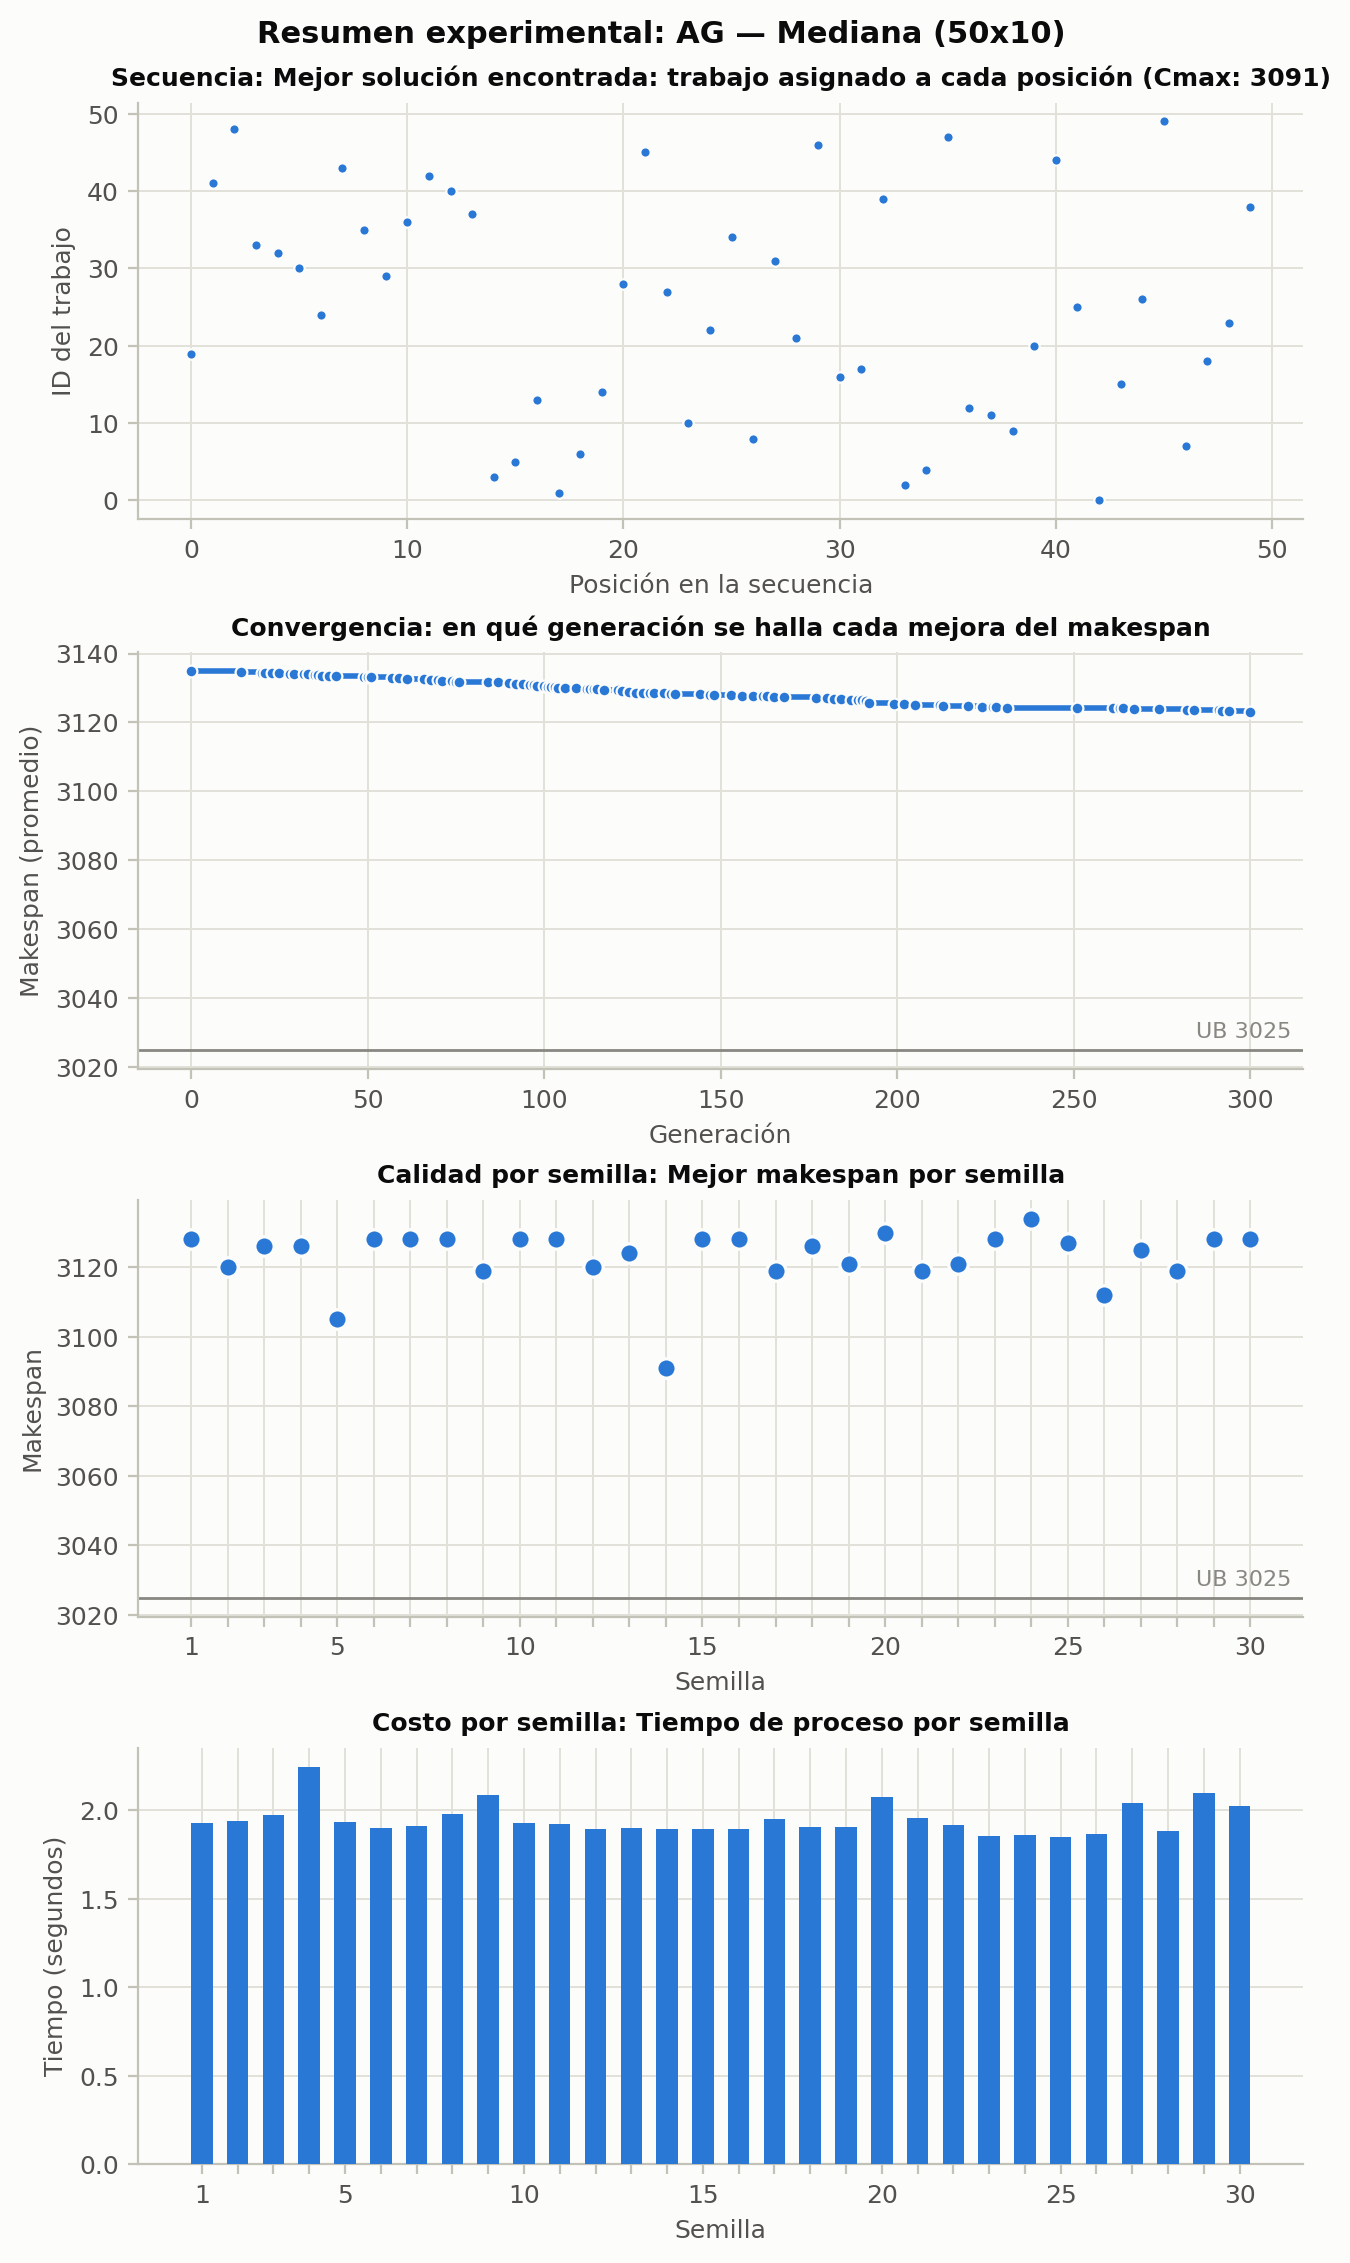
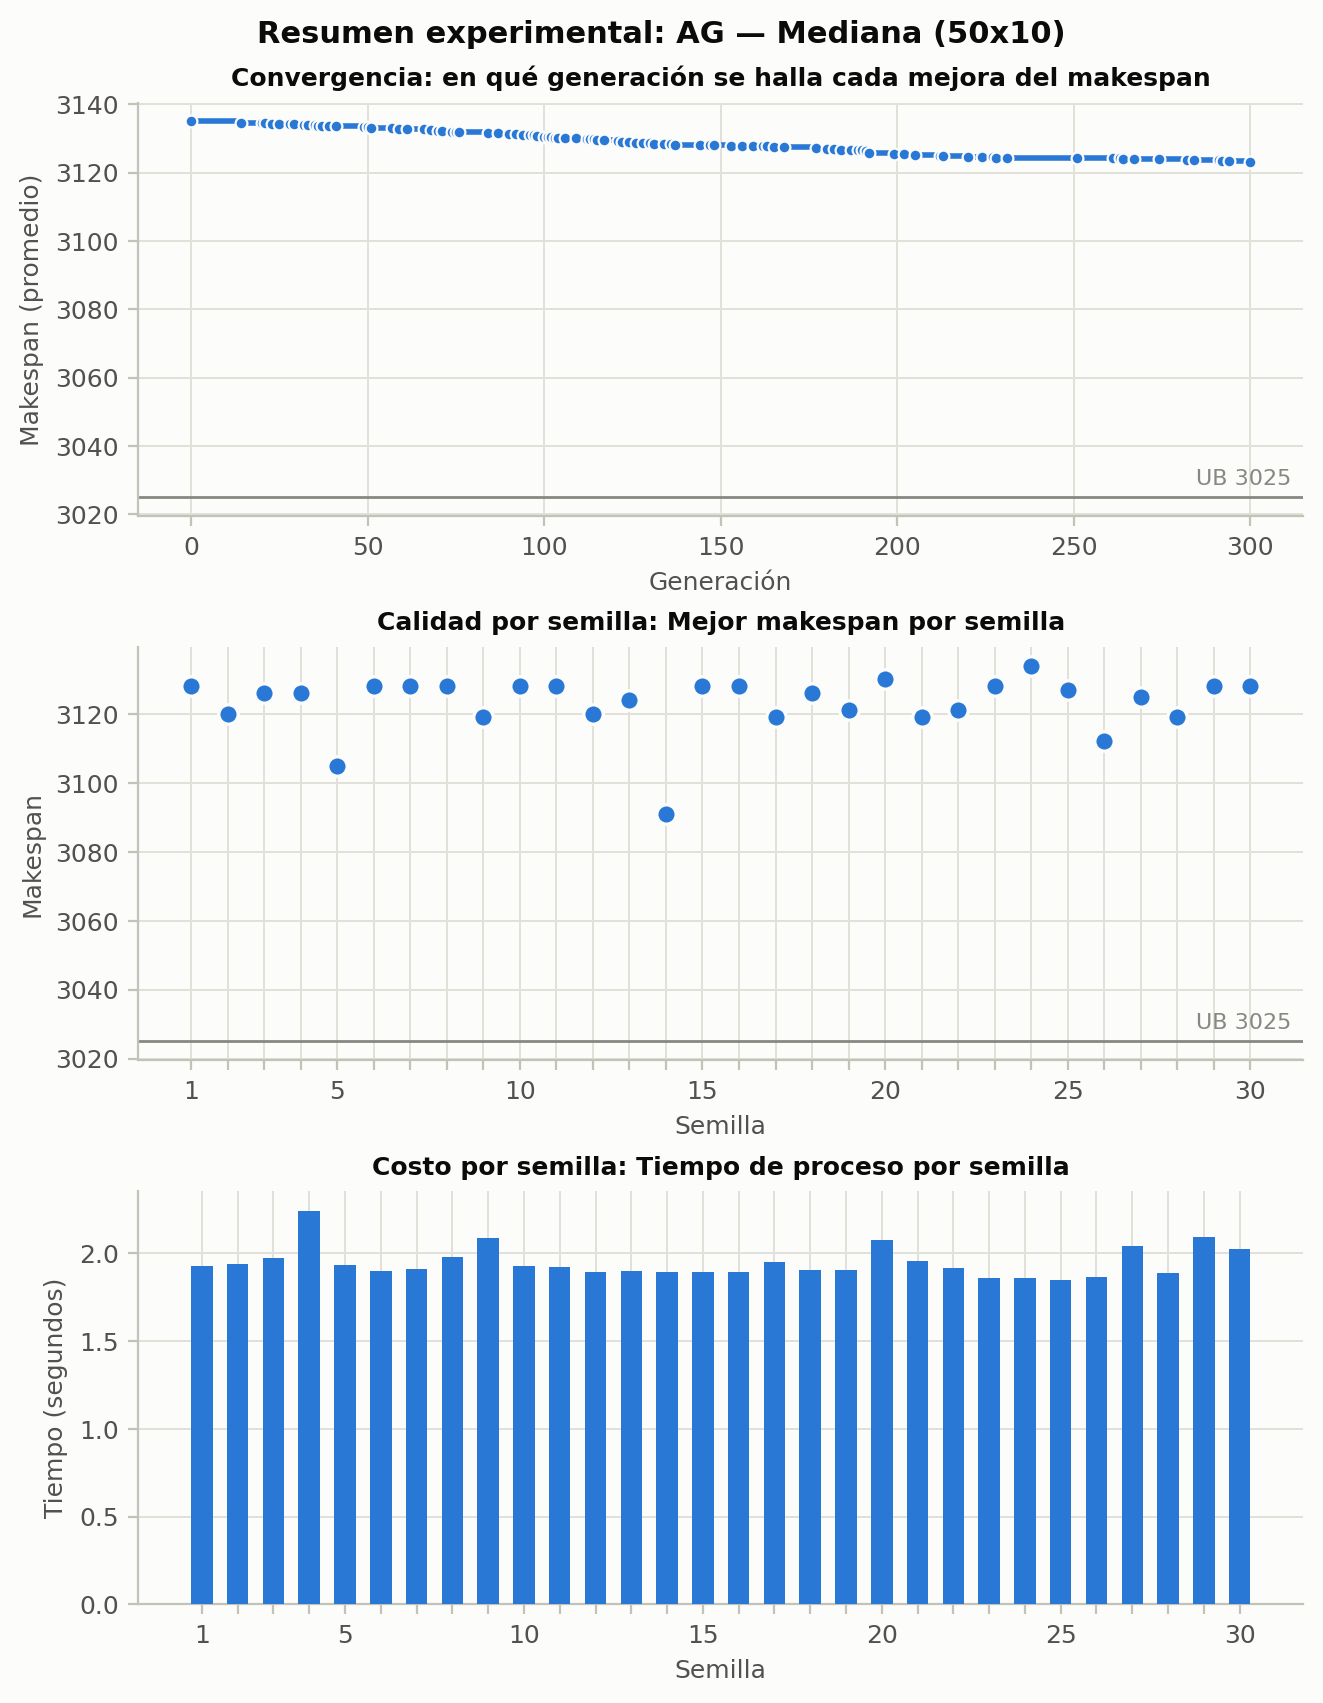
refactor(gráficos): se elimina gráfico redundante

Changed region(s): [[0.0, 0.0, 0.9917, 0.9959], [0.062, 0.9336, 0.093, 0.9648]]

diff --git a/generar_graficos.py b/generar_graficos.py
@@ -119,20 +119,6 @@ def _configurar_xticks_semillas(eje, semillas):
 # Métricas por algoritmo
 # --------------------------------------------------------------------------
 
-def dibujar_secuencia(eje, algoritmo, datos):
-    """Trabajo asignado a cada posición, en la mejor solución del método."""
-    corridas = corridas_de(datos["resultados"], algoritmo)
-    if not corridas:
-        return None
-    mejor = min(corridas, key=lambda r: int(r["Makespan"]))
-    secuencia = [int(t) for t in mejor["Mejor_Secuencia"].split("-")]
-    marca = 26 if len(secuencia) <= 20 else (14 if len(secuencia) <= 50 else 7)
-    eje.scatter(range(len(secuencia)), secuencia, s=marca, c=COLOR[algoritmo],
-                marker=MARCA[algoritmo], edgecolors=SUPERFICIE, linewidths=0.8,
-                zorder=3)
-    return f"Cmax: {mejor['Makespan']}"
-
-
 def _curva_mejor_hasta_ahora(pares, generaciones):
     """Expande [(gen, makespan), ...] al mejor valor conocido en cada generación."""
     curva = []
@@ -265,10 +251,6 @@ Metrica = namedtuple(
     "Metrica", "nombre titulo fila ylabel xlabel dibujar en_resumen")
 
 METRICAS = [
-    Metrica("secuencia_mejor_solucion",
-            "Mejor solución encontrada: trabajo asignado a cada posición",
-            "Secuencia", "ID del trabajo", "Posición en la secuencia",
-            dibujar_secuencia, True),
     Metrica("generacion_hallazgo",
             "Convergencia: en qué generación se halla cada mejora del makespan",
             "Convergencia", "Makespan (promedio)", "Generación",

diff --git a/README.md b/README.md
@@ -188,8 +188,7 @@ Figuras en `results/graficos/` (generadas para cada algoritmo, `{metrica}_ag.png
 
 | Archivo | Qué muestra |
 |---|---|
-| `resumen_{algoritmo}.png` | Las cuatro métricas siguientes en una columna para el algoritmo correspondiente. |
-| `secuencia_mejor_solucion_{algoritmo}.png` | Trabajo asignado a cada posición en la mejor solución encontrada. |
+| `resumen_{algoritmo}.png` | Las tres métricas siguientes en una columna para el algoritmo correspondiente. |
 | `generacion_hallazgo_{algoritmo}.png` | En qué generación se halla cada mejora del makespan (promedio). |
 | `makespan_por_semilla_{algoritmo}.png` | Mejor makespan alcanzado por cada una de las 30 semillas. |
 | `tiempo_por_semilla_{algoritmo}.png` | Tiempo de proceso de cada semilla. |
